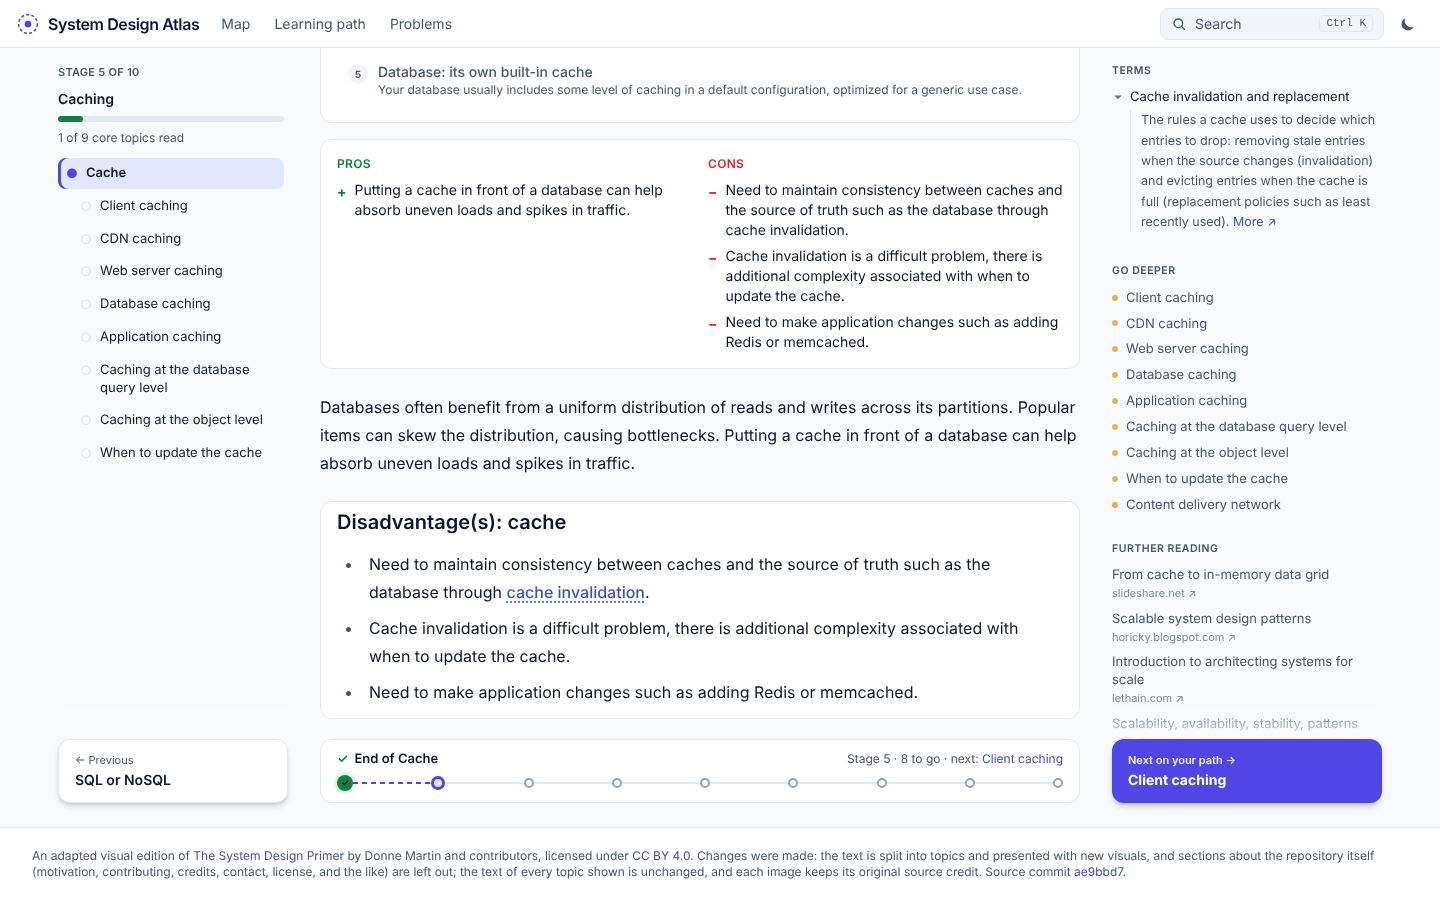
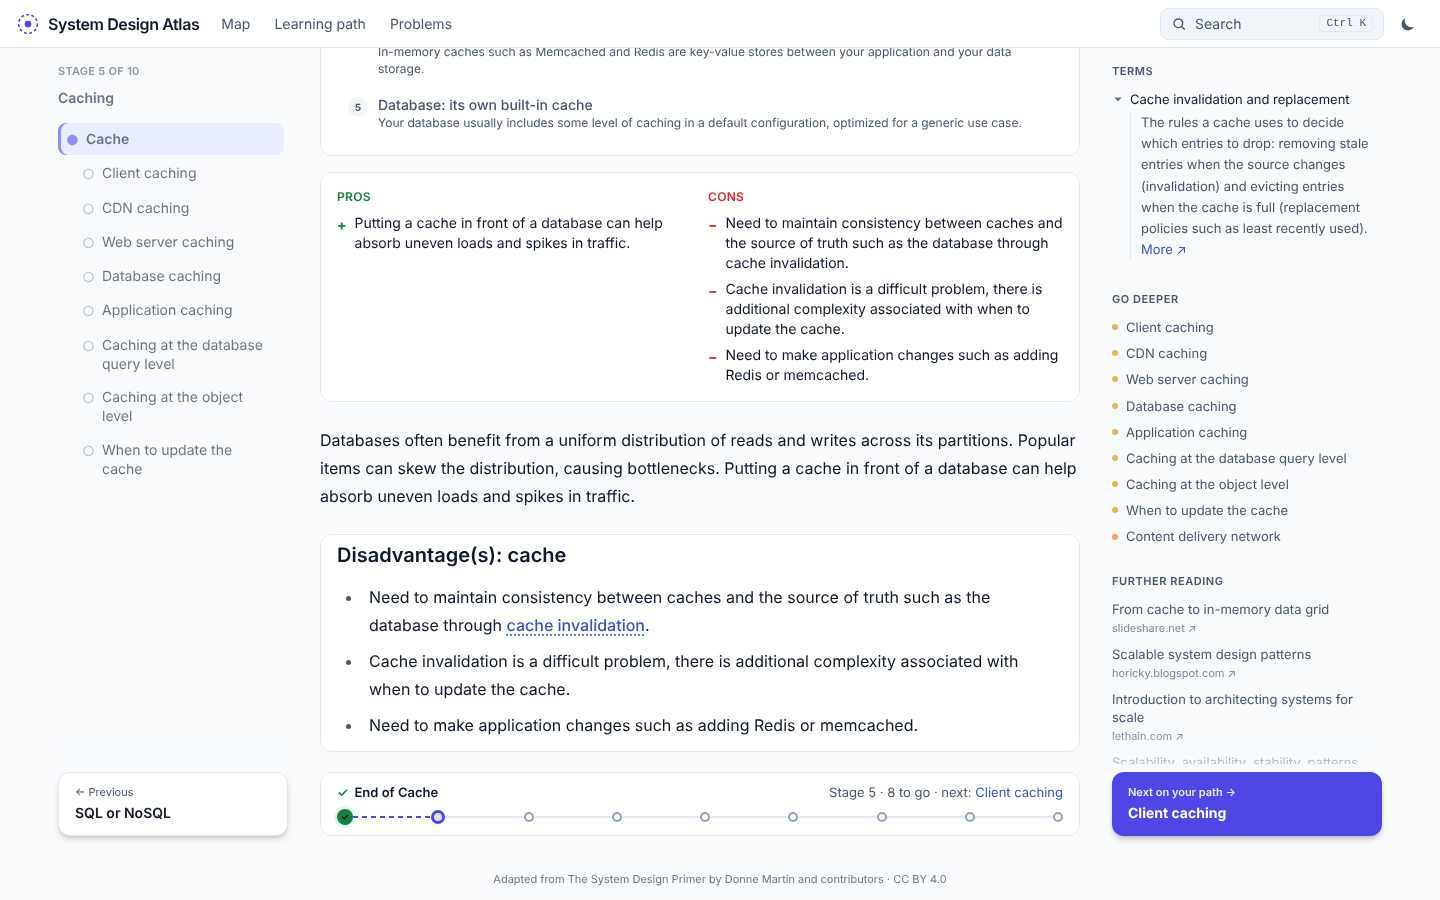
Tidy the type scale around the reading text to three sizes
Adds text-ui (13px) and text-label (11px) theme sizes and uses them with
text-sm (14px) across the side panels, cards, stage bar, breadcrumbs,
chips and footer, replacing 10.5/11/12/12.5/13/14px one-offs.

Claude-Session: https://claude.ai/code/session_012hVuGroYHB7edP1rEvEZnx

Changed region(s): [[0.0312, 0.0311, 0.9688, 0.9956], [0.0312, 0.0622, 0.1875, 0.5289], [0.2188, 0.1556, 0.4688, 0.28]]

diff --git a/src/topic/rails.tsx b/src/topic/rails.tsx
@@ -22,7 +22,7 @@ export function PathNavigator({ node }: { node: TopicNode }) {
   if (!pos) {
     return (
       <nav aria-label="Learning path" className="flex flex-col gap-2 text-sm">
-        <div className="text-[11px] font-semibold tracking-wide text-muted uppercase">Background reading</div>
+        <div className="text-label font-semibold tracking-wide text-muted uppercase">Background reading</div>
         <p className="text-muted">This page isn’t a stop on the learning path.</p>
         <Link to="/path" className="text-link hover:underline">
           See the learning path →
@@ -35,8 +35,8 @@ export function PathNavigator({ node }: { node: TopicNode }) {
   // The stage's core topics, plus the current page if it is a detailed (depth) topic.
   const items = [...new Set([...stage.breadth, node.id])].filter((id) => PATH_ORDER.includes(id)).sort((a, b) => topics.nodes[a].order - topics.nodes[b].order)
   return (
-    <nav aria-label="Learning path" className="flex flex-col gap-2 text-[13px]">
-      <Link to={`/path#stage-${stage.id}`} className="text-[11px] font-semibold tracking-wide text-muted uppercase hover:text-ink">
+    <nav aria-label="Learning path" className="flex flex-col gap-2 text-sm">
+      <Link to={`/path#stage-${stage.id}`} className="text-label font-semibold tracking-wide text-muted uppercase hover:text-ink">
         Stage {stage.index + 1} of {PATH.length}
       </Link>
       <div className="text-sm leading-snug font-semibold">{stage.title}</div>
@@ -86,7 +86,7 @@ export function PrevCard({ node }: { node: TopicNode }) {
   if (!prev) return <div className={END_ROW_H} aria-hidden />
   return (
     <Link to={`/topic/${prev.id}`} state={PATH_ORDER.includes(prev.id) ? VIA_PATH : undefined} className={`${card} border border-line bg-surface shadow-md shadow-black/15 hover:border-[var(--accent)]`}>
-      <span className="text-[11px] text-muted">← Previous</span>
+      <span className="text-label text-muted">← Previous</span>
       <span className="truncate text-sm font-semibold">{prev.title}</span>
     </Link>
   )
@@ -97,7 +97,7 @@ export function NextCard({ node }: { node: TopicNode }) {
   if (step.kind === 'end')
     return (
       <Link to="/problems" className={`${card} border border-ok/50 bg-ok-soft`}>
-        <span className="text-[11px] font-semibold text-ok">End of the learning path</span>
+        <span className="text-label font-semibold text-ok">End of the learning path</span>
         <span className="truncate text-sm font-semibold">Practise the problems →</span>
       </Link>
     )
@@ -105,7 +105,7 @@ export function NextCard({ node }: { node: TopicNode }) {
   const label = step.kind === 'back' ? 'Back to your path ↩' : step.kind === 'start' ? 'Follow the learning path →' : 'Next on your path →'
   return (
     <Link to={`/topic/${t.id}`} state={step.kind === 'back' ? undefined : VIA_PATH} className={`${card} bg-[var(--accent)] text-on-accent shadow-md shadow-black/20 hover:opacity-95`}>
-      <span className="text-[11px] font-semibold opacity-90">{label}</span>
+      <span className="text-label font-semibold opacity-90">{label}</span>
       <span className="truncate text-sm font-bold">{t.title}</span>
     </Link>
   )
@@ -134,14 +134,14 @@ export function StageRibbon({ node }: { node: TopicNode }) {
   const left = stops.filter((id) => !read.has(id) && id !== here).length
     return (
     <section aria-label={`End of ${node.title}`} className={`${END_ROW_H} box-border flex flex-col justify-center gap-2 rounded-xl border border-line bg-surface px-4`}>
-      <div className="flex items-baseline justify-between gap-3 text-[13px] leading-tight">
+      <div className="flex items-baseline justify-between gap-3 text-ui leading-tight">
         <span className="min-w-0 truncate font-semibold">
           <span aria-hidden className="mr-1.5 text-ok">
             ✓
           </span>
           End of {node.title}
         </span>
-        <span className="shrink-0 text-xs text-muted">
+        <span className="shrink-0 text-ui text-muted">
           Stage {stage.index + 1} · {left === 0 ? 'complete' : `${left} to go`}
           {next && (
             // On narrow screens the Next button right below says this already.
@@ -241,7 +241,7 @@ export function sidePanelItems(node: TopicNode, hideSubtopics: boolean) {
   return { terms, reading, deeper }
 }
 
-const label = 'mb-1.5 text-[10.5px] font-semibold tracking-wider text-muted uppercase'
+const label = 'mb-1.5 text-label font-semibold tracking-wider text-muted uppercase'
 
 /**
  * The page's extras, kept out of the way of the reading: the terms it explains, further reading and where to go
@@ -251,7 +251,7 @@ export function SidePanel({ node, hideSubtopics }: { node: TopicNode; hideSubtop
   const { terms, reading, deeper } = sidePanelItems(node, hideSubtopics)
   if (!terms.length && !reading.length && !deeper.length) return null
   return (
-    <div aria-label="On this page" className="flex flex-col gap-6 text-[13px] leading-snug text-muted">
+    <div aria-label="On this page" className="flex flex-col gap-6 text-ui text-muted">
       {terms.length > 0 && (
         <section>
           <h2 className={label}>Terms</h2>
@@ -265,7 +265,7 @@ export function SidePanel({ node, hideSubtopics }: { node: TopicNode; hideSubtop
                     </svg>
                     <span className="group-open:text-ink">{entry.term}</span>
                   </summary>
-                  <div className="mb-2 ml-[18px] border-l border-line pl-2.5 text-[12.5px] leading-relaxed">
+                  <div className="mb-2 ml-[18px] border-l border-line pl-2.5 leading-relaxed">
                     {entry.text[0]}{' '}
                     <a href={url} target="_blank" rel="noopener noreferrer" className="whitespace-nowrap text-link hover:underline">
                       More ↗
@@ -307,7 +307,7 @@ export function SidePanel({ node, hideSubtopics }: { node: TopicNode; hideSubtop
                 <li key={url}>
                   <a href={r.href} target="_blank" rel="noopener noreferrer" className="group block rounded-md py-1 hover:text-ink">
                     <span className="line-clamp-2">{title}</span>
-                    <span className="text-[11px] opacity-70 group-hover:opacity-100">{domainOf(r.href)} ↗</span>
+                    <span className="text-label opacity-70 group-hover:opacity-100">{domainOf(r.href)} ↗</span>
                   </a>
                 </li>
               ),

diff --git a/src/topic/journeyUi.tsx b/src/topic/journeyUi.tsx
@@ -54,7 +54,7 @@ export function PathStrip({ node, onlyDetour }: { node: TopicNode; onlyDetour?: 
   const done = stage.breadth.filter((id) => read.has(id) || id === node.id).length
   return (
     <div className="flex flex-col gap-2 rounded-xl border border-line bg-surface-2/60 px-3 py-2 text-sm sm:flex-row sm:items-center">
-      <Link to={`/path#stage-${stage.id}`} className="shrink-0 self-start rounded-full bg-[var(--accent)] px-2 py-0.5 text-xs font-semibold text-on-accent hover:opacity-90 sm:self-auto">
+      <Link to={`/path#stage-${stage.id}`} className="shrink-0 self-start rounded-full bg-[var(--accent)] px-2 py-0.5 text-label font-semibold text-on-accent hover:opacity-90 sm:self-auto">
         Stage {stage.index + 1} of {PATH.length}
       </Link>
       <span className="min-w-0 flex-1">
@@ -66,7 +66,7 @@ export function PathStrip({ node, onlyDetour }: { node: TopicNode; onlyDetour?: 
           {done} of {stage.breadth.length} core topics read
         </span>
       </span>
-      <span className="shrink-0 text-xs text-muted">
+      <span className="shrink-0 text-ui text-muted">
         {done}/{stage.breadth.length} core topics read
       </span>
     </div>
@@ -83,7 +83,7 @@ export function NextNav({ node }: { node: TopicNode }) {
       {step.kind === 'next' && (
         <Link to={`/topic/${step.target!.id}`} state={VIA_PATH} className={big}>
           <span>
-            <span className="block text-[11px] opacity-85">Next on your learning path</span>
+            <span className="block text-label opacity-85">Next on your learning path</span>
             <span className="block text-sm font-semibold">{step.target!.title}</span>
           </span>
           <span aria-hidden className="text-base">→</span>
@@ -93,7 +93,7 @@ export function NextNav({ node }: { node: TopicNode }) {
         <>
           <Link to={`/topic/${step.target!.id}`} className={big}>
             <span>
-              <span className="block text-[11px] opacity-85">Back to your place on the learning path</span>
+              <span className="block text-label opacity-85">Back to your place on the learning path</span>
               <span className="block text-sm font-semibold">{step.target!.title}</span>
             </span>
             <span aria-hidden className="text-base">↩</span>
@@ -111,7 +111,7 @@ export function NextNav({ node }: { node: TopicNode }) {
       {step.kind === 'start' && (
         <Link to={`/topic/${step.target!.id}`} state={VIA_PATH} className={big}>
           <span>
-            <span className="block text-[11px] opacity-85">Follow the learning path</span>
+            <span className="block text-label opacity-85">Follow the learning path</span>
             <span className="block text-sm font-semibold">{step.target!.title}</span>
           </span>
           <span aria-hidden className="text-base">→</span>
@@ -125,7 +125,7 @@ export function NextNav({ node }: { node: TopicNode }) {
           </Link>
         </div>
       )}
-      <div className="flex flex-wrap items-center justify-between gap-2 text-xs text-muted">
+      <div className="flex flex-wrap items-center justify-between gap-2 text-ui text-muted">
         <span>In reading order:</span>
         <span className="flex flex-wrap gap-x-4 gap-y-1">
           {prev && (

diff --git a/src/topic/parts.tsx b/src/topic/parts.tsx
@@ -4,7 +4,7 @@ import { AREA_LABEL, areaColor, oodRefs, solutionRefByReadmeTopic, topics } from
 
 export function AreaChip({ node }: { node: TopicNode }) {
   return (
-    <span className="inline-flex items-center gap-1.5 rounded-full border border-line px-2 py-0.5 text-xs text-muted">
+    <span className="inline-flex items-center gap-1.5 rounded-full border border-line px-2 py-0.5 text-label text-muted">
       <span aria-hidden className="size-2 rounded-full" style={{ background: areaColor(node.area) }} />
       {AREA_LABEL[node.area]}
     </span>
@@ -15,7 +15,7 @@ export function Breadcrumbs({ node }: { node: TopicNode }) {
   const ancestors = node.pathIds.slice(0, -1)
   if (ancestors.length === 0) return null
   return (
-    <nav aria-label="Breadcrumb" className="text-xs text-muted">
+    <nav aria-label="Breadcrumb" className="text-ui text-muted">
       <ol className="flex flex-wrap items-center gap-x-1 gap-y-0.5">
         {ancestors.map((id, i) => (
           <li key={id} className="flex items-center gap-1">

diff --git a/src/app/Footer.tsx b/src/app/Footer.tsx
@@ -7,7 +7,7 @@ import { meta } from '../lib/content.ts'
 export function Footer({ compact = false }: { compact?: boolean }) {
   const a = 'underline-offset-2 hover:text-ink hover:underline'
   return (
-    <footer className={`shrink-0 px-4 text-center text-[11px] leading-snug text-muted/80 ${compact ? 'py-1' : 'mt-auto py-3'}`}>
+    <footer className={`shrink-0 px-4 text-center text-label text-muted/80 ${compact ? 'py-1' : 'mt-auto py-3'}`}>
       Adapted from{' '}
       <a className={a} href={`${meta.repo}/tree/${meta.commit}`} target="_blank" rel="noopener noreferrer">
         The System Design Primer

diff --git a/src/topic/TopicPage.tsx b/src/topic/TopicPage.tsx
@@ -139,7 +139,7 @@ export function TopicPage() {
           <header className="flex flex-col gap-2">
             <div className="flex flex-wrap items-center justify-between gap-2">
               <Breadcrumbs node={node} />
-              <Link to={`/map/${node.id}`} className="text-xs text-muted hover:text-ink hover:underline">
+              <Link to={`/map/${node.id}`} className="text-ui text-muted hover:text-ink hover:underline">
                 Show on the map
               </Link>
             </div>

diff --git a/src/index.css b/src/index.css
@@ -79,6 +79,12 @@
 }
 
 @theme inline {
+  /* The type scale for everything around the reading text: text-sm (14px) for titles, text-ui (13px) for lists
+     and secondary text, text-label (11px) for labels and small print. */
+  --text-ui: 13px;
+  --text-ui--line-height: 1.4;
+  --text-label: 11px;
+  --text-label--line-height: 1.45;
   --color-bg: var(--bg);
   --color-surface: var(--surface);
   --color-surface-2: var(--surface-2);

diff --git a/docs/PLAN.md b/docs/PLAN.md
@@ -1023,3 +1023,10 @@ The layout was chosen from mockups on the design canvas.
   Next sat lower. On wide screens the page now fills the screen height and the ribbon is pushed to the bottom, so the
   three always sit together at the bottom of the screen, just above the footer (measured the same 773–837 px at
   1860×900 on a short, a medium and a long page). Screenshot: `docs/screenshots/short-page-end.png`.
+
+### Type scale tidy-up (reader feedback)
+
+- Everything around the reading text now uses three sizes, defined once in `src/index.css`: `text-sm` (14px) for
+  titles and the left topic list, `text-ui` (13px) for panel items, the stage bar, breadcrumbs and secondary lines,
+  and `text-label` (11px) for labels, website names, chips and the footer. This replaces six near-identical sizes
+  (10.5, 11, 12, 12.5, 13, 14px). The reading text (16px / 28 on desktop) and the visuals are unchanged.
